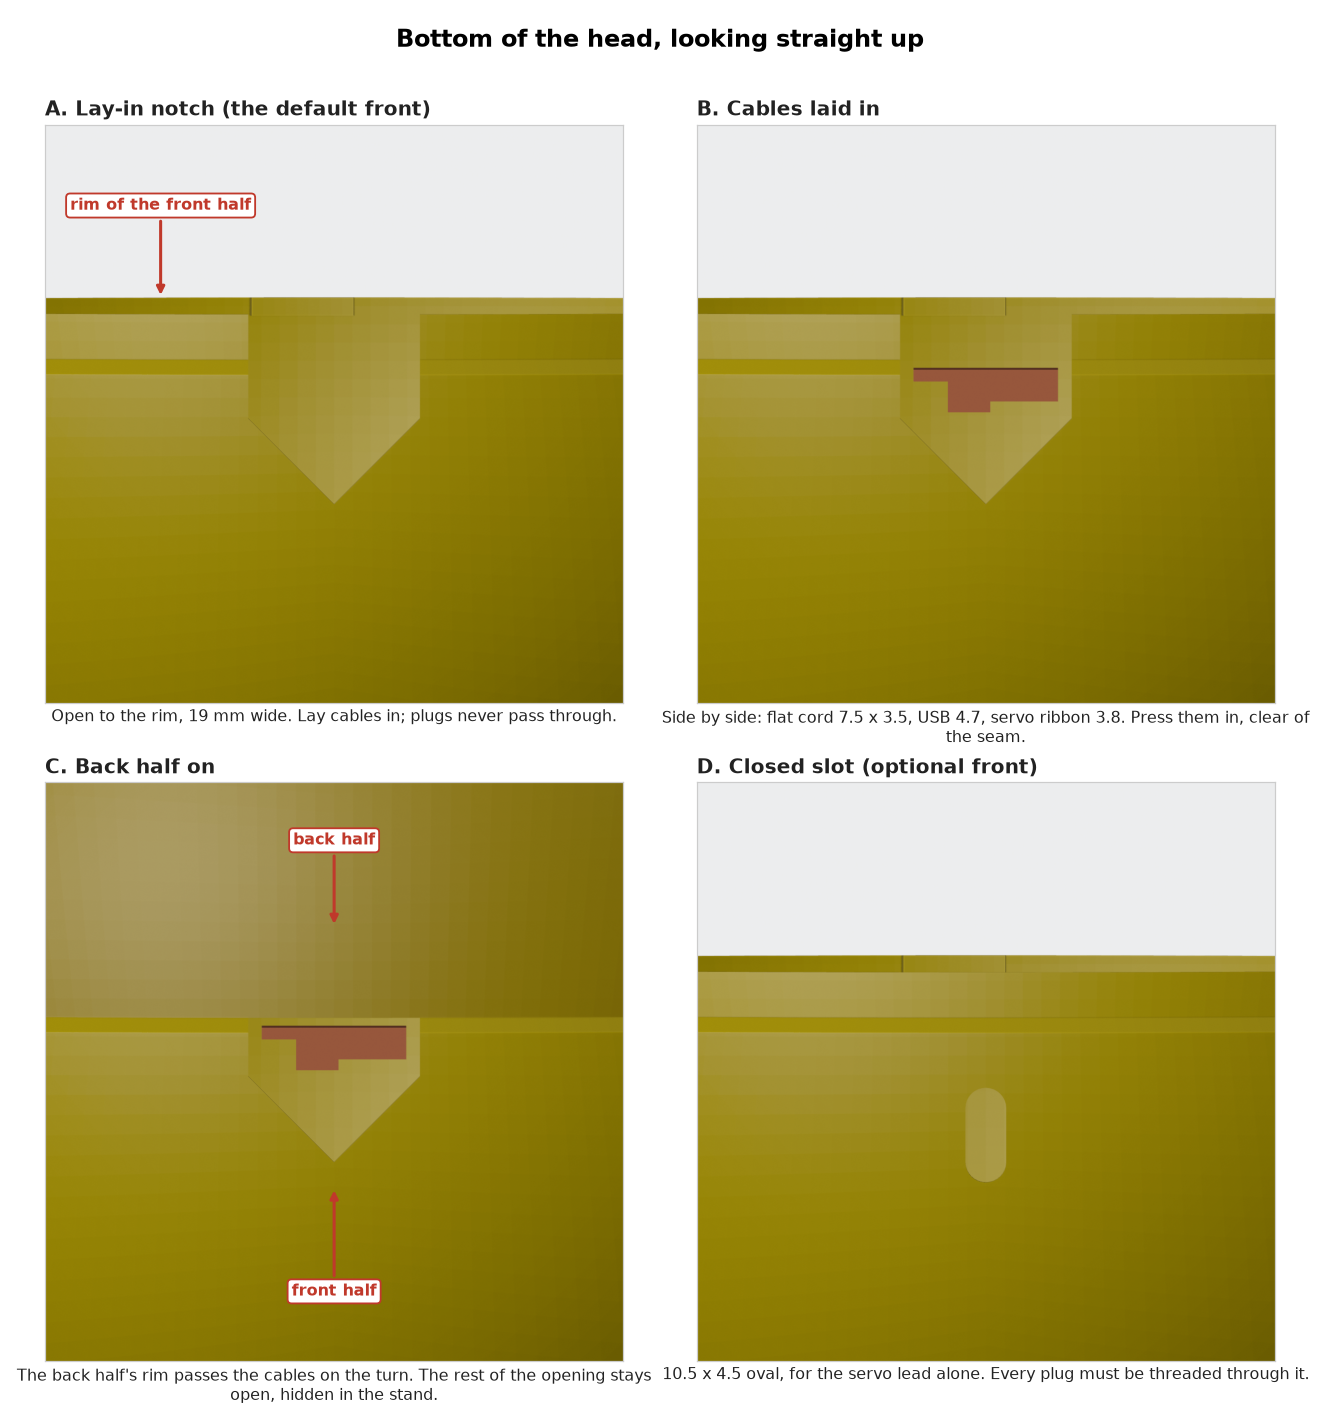
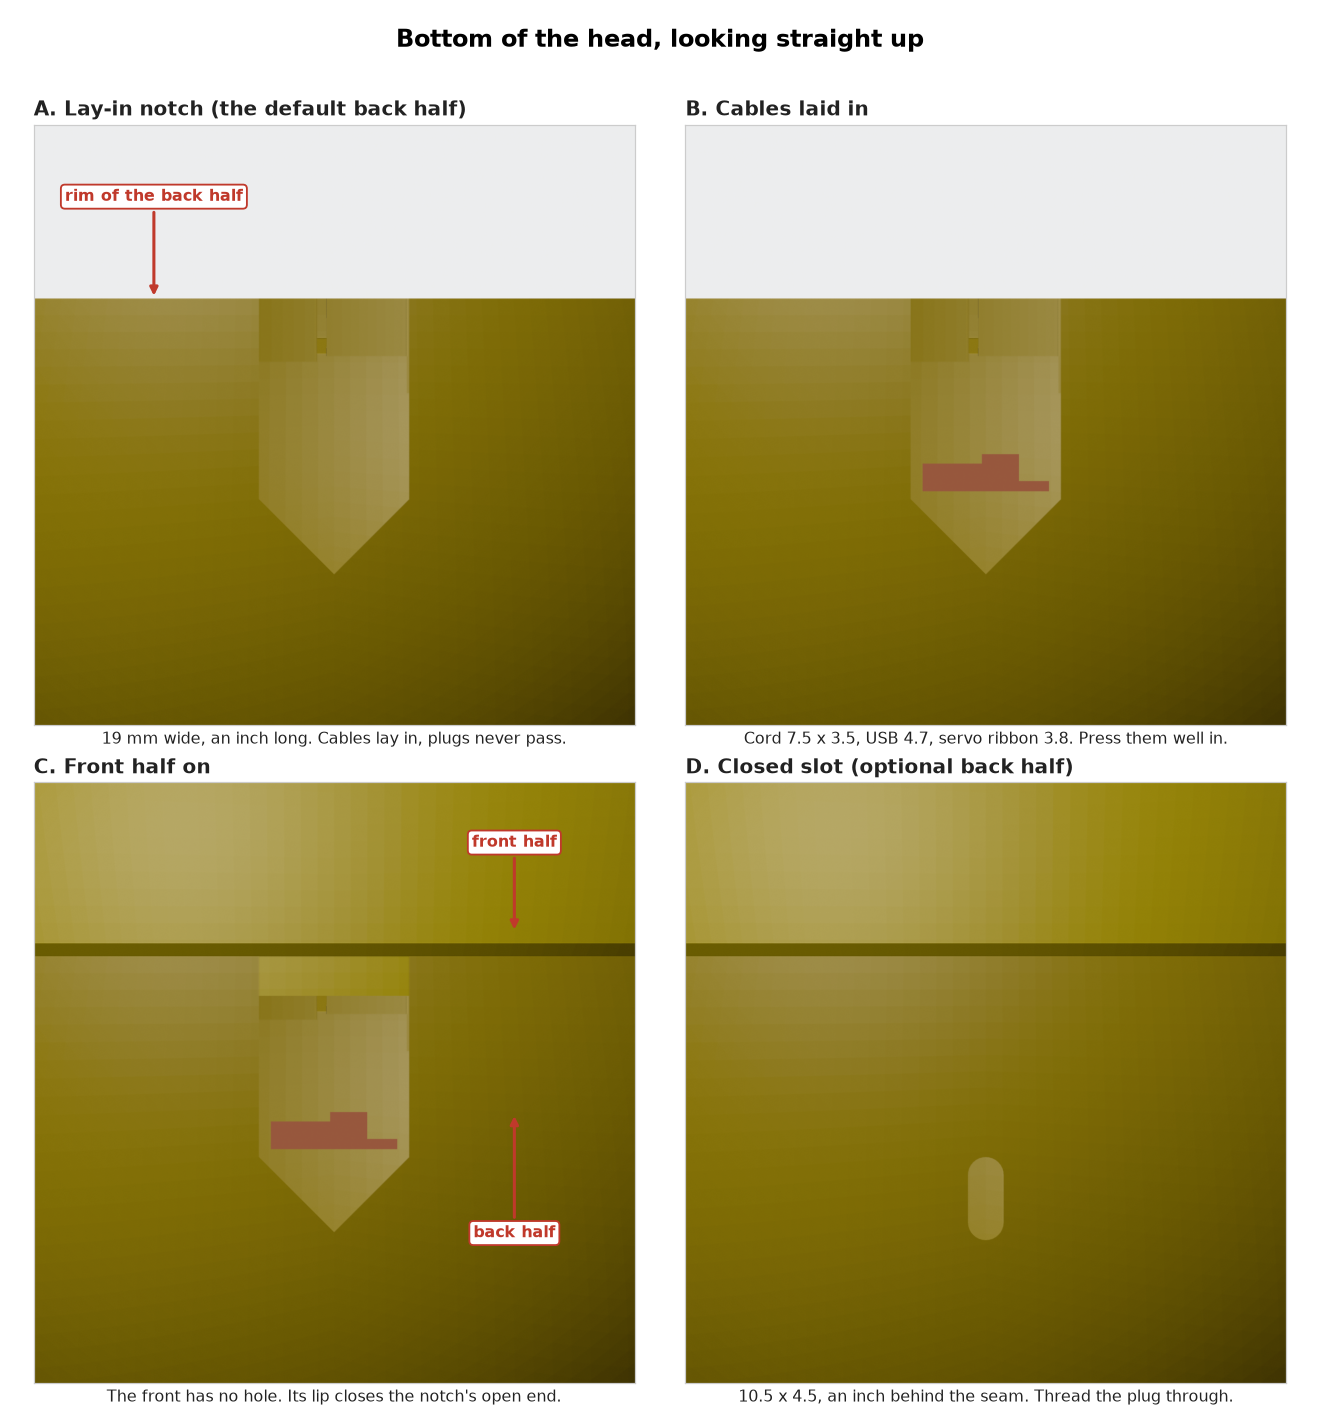
talkbot-head v0.9.2: cable exit moved to the back half; eye plug needs glue (correction). Press-fit and ball-head lessons in design for print
Claude-Session: https://claude.ai/code/session_01JBzx3YZPviiC66rtEqwJrp

diff --git a/talkbot-head/ASSEMBLY.md b/talkbot-head/ASSEMBLY.md
@@ -12,10 +12,10 @@ Print **T1** and try the servo's gear in each of its three pockets (the notches 
 will not twist on the gear. The paddle uses 4.6. If a different pocket wins on your printer, the paddle will be loose or tight: tell
 us by opening an issue.
 
-Print **T2 and T3** (T2 has the cable notch, so it proves the seam still holds with it) and try the twist-lock (step 6) before spending 16 hours on the halves. Hold the back hoop still, set the front
+Print **T2 and T3** (T3 has the cable notch, so it proves the seam still holds with it) and try the twist-lock (step 6) before spending 16 hours on the halves. Hold the back hoop still, set the front
 hoop on it with the ticks 18 mm apart, and turn. Right: a soft bump, then a hard stop, with fingertip force.
 
-Cleanup: snap the tree supports out of the dome, then scrape the inner wall flat around the mouth and around both eyes. Support marks there tilt everything. Trim the brim's ridge from the lip. On the notched front, take the thin support out of the
+Cleanup: snap the tree supports out of the dome, then scrape the inner wall flat around the mouth and around both eyes. Support marks there tilt everything. Trim the brim's ridge from the lip. On the notched back, take the thin support out of the
 notch with pliers and a knife.
 
 ## 1. Mouth unit, on the bench
@@ -36,9 +36,8 @@ notch with pliers and a knife.
 The eye on the left as you face the head is on the bracket. The other eye is one plug from part 05. The three plugs differ only in
 their ribs, the thin strips along the pin that squash as it goes in, and the notches on each rim say how tight it is: 1 is loosest, 3 is
 tightest. Start with 3, which was the best of the three on an A1 mini in PLA. With the back half off, press it in from the inside with your thumb
-until its rim sits on the wall. Right: the face is flush with the sphere and the plug stays put when you shake the head, with no glue. If 3 will
-not go in, try 2, then 1, or shave its ribs with a knife.
-
+until its rim sits on the wall. Right: the face is flush with the sphere. If 3 will not go in, try 2, then 1, or shave its ribs with a knife.
+Then put a dab of hot glue over the rim, inside. On the test build the ribs alone were not enough: a thumb bump pushed the plug out.
 
 1. Cut the support off the yellow post inside the face, scrape its face smooth, and run a screw into each of its two pilots once.
 2. Bring the unit in through the open back, pin first, into the eye hole. The eye's face must sit flush with the outside of the sphere.
@@ -54,10 +53,13 @@ not go in, try 2, then 1, or shave its ribs with a knife.
 
 The head holds only the servo. Its lead, with the jumper wires, goes down to the Pico in the base.
 
-- **Lay-in front (01):** lay the lead in the notch at the bottom of the head. Other cables go beside it. Press everything fully in,
-  away from the rim, before the back goes on, or the back's rim will catch it on the turn. It takes a flat cord 7.5 x 3.5, a USB
-  cable 4.7 round and the servo ribbon side by side.
-- **Closed-slot front (01b):** thread the servo lead through the oval before the head goes on the stand.
+The exit is in the back half, an inch behind the seam, so it stays out of sight when the head tilts up to look at people.
+
+- **Lay-in back (02):** do this at step 6, as the back goes on. Bring the back half up so the lead slides into the notch from the rim, with
+  any other cables beside it. Press everything well in, away from the rim, so the front's lip can pass. The notch is wide enough for a flat
+  cord 7.5 x 3.5, a USB cable 4.7 round and the servo ribbon side by side, but thick cables have not been tried here: see Base. To open the head, the back half lifts away from the cables.
+- **Closed-slot back (02b):** thread the servo lead through the oval from the inside before the back goes on. The back half then stays on the
+  lead. To take it right off, undo the jumper joint and pull the plug back through.
 
 Tape each jumper joint and leave slack, or the plugs pull apart when the head is lifted.
 
@@ -66,8 +68,8 @@ Tape each jumper joint and leave slack, or the plugs pull apart when the head is
 ![The back arch](images/back_arch.png)
 
 1. Tape the webcam to the riser's floor, facing the front, tilted up. Tilted fully up it comes within 2 mm of the head, so route
-   cables round its sides, not over the top. **Before printing the notched front, test this:** with the real camera at your tilt and
-   the head on the stand, can your cables get from the bottom of the head to the back? The servo ribbon always can; thick cables may not, and
+   cables round its sides, not over the top. **Before printing the notched back, test this:** with the real camera at your tilt and
+   the head on the stand, can your cables get from the bottom of the head to the back? Tilting the head rolls the exit forward over the camera. The servo ribbon always can; thick cables may not, and
    then the camera has to tilt less.
 2. Put the hub, Pico and speaker behind it. Connect the Pico, the camera and the speaker's charge lead to the hub.
    Plug the speaker's 3.5 mm lead into the female-to-female adapter, the adapter into the ground loop isolator, and the extension from the
@@ -84,7 +86,8 @@ Run the camera and speaker from your software, and send the jaw angles between 2
 
 ## 6. Close the head (twist-lock)
 
-The head sits on the pedestal's ring. Hold on to the front half.
+Do this with the head lifted at least 5 mm off the pedestal's ring: the back half cannot go on while the front sits down on the ring, because the
+back's lower edge hits it. Leave that much slack in the cables, and glue or stick nothing to the ring until the head is closed. Hold on to the front half.
 
 1. Find the small ticks at the top of the seam: one on the back, two on the front.
 2. Put the back's tick against the front's far tick and set the back on. It drops about 5 mm with no force.

diff --git a/docs/design-for-print/10-solved-mechanisms.md b/docs/design-for-print/10-solved-mechanisms.md
@@ -19,7 +19,7 @@ The long-form reasoning and the sources are in the section each entry links to.
 | [Twist-lock seam for a two-half shell](#twist-lock-seam-for-a-two-half-shell) | closing a round or cylindrical shell from the inside, no hardware, opened now and then | worked in the hand (final lengths not yet printed) |
 | [Printed hub on a micro-servo spline](#printed-hub-on-a-micro-servo-spline) | driving a printed arm, jaw or paddle from an SG90/MG90S | printed, not yet proven |
 | [Side-entry micro-servo mount](#side-entry-micro-servo-mount) | holding a micro servo in a printed block when its lead leaves the end face | designed and checked |
-| [Crush-rib socket](#crush-rib-socket) | pressing a printed part into a printed bore that has to stay put without glue | worked in the hand (the plug; the lip version not reported; long-term hold not known) |
+| [Crush-rib socket](#crush-rib-socket) | pressing a printed part into a printed bore that has to stay put without glue | plug version seats flush but did not hold alone; lip version not reported |
 | [Ear-and-post second mount inside a shell](#ear-and-post-second-mount-inside-a-shell) | anchoring a part already located by a hole, with no fastener showing outside | designed and checked |
 | [Lay-in cable notch at a seam](#lay-in-cable-notch-at-a-seam) | letting cables with fat plugs leave a shell that closes by twisting | designed and checked |
 | [Fold-out plate on a friction hinge](#fold-out-plate-on-a-friction-hinge) | a printed plate fixed to an existing hinge leaf (a stand, a flap) | designed and checked |
@@ -108,15 +108,18 @@ stopping short of the bore's first-layer flare, with a 0.8 mm chamfer on the lip
 the wall doesn't; too tight, shave the ribs with a knife. Guides suggest ribs about 0.2 mm proud; this used 0.05
 because printed holes already come out small (section 1). Report the fit (won't go / push / slides) when printed.
 
-**Plug version (worked in the hand, 2026-10-31).** A plug pressed into an oval hole through a curved shell wall, where glue was
+**Plug version (printed, did not hold without glue, 2026-10-31).** A plug pressed into an oval hole through a curved shell wall, where glue was
 the alternative. The pin body sits 0.35 mm clear of the hole and never touches. Eight ribs (1.6 mm wide at the base, 0.6 at the tip,
 0.8 mm lead-in, stopping 0.6 mm short of the face) do all the gripping. The flange behind the wall copies the wall's curve, so
 seated means flush. Three plugs at rib gaps +0.15, +0.05 and -0.05 mm from the modelled hole, marked with 1, 2 and 3 notches through
-the flange's rim (section 1, coupons). **The -0.05 plug, 3 notches, fit best**, on the real shell. It is the tightest size tried.
+the flange's rim (section 1, coupons). The -0.05 plug, 3 notches, fit best on the real shell, but a thumb bump pushed it out, so it was glued. Seating flush worked; retention
+did not. It is the tightest size tried; tighter ones are modelled, not printed. If the part can be merged with something located
+(section 0 of the entry point, "Don't have two parts"), do that: the next version of this design would put the eye on the bracket
+that already seats behind the wall, with a little preload pushing it forward so tolerances can't leave it hanging back.
 
 Failed version: a plain plug with a flat flange and no ribs stood proud of the sphere and needed glue. A flat flange on a curved
 wall touches at one point, and in the model it would have seated flush, so the plug probably never went all the way in (not
-measured). PLA creeps, so a joint held only by friction may loosen over months (section 1); this one carries only its own weight.
+measured).
 
 ## Ear-and-post second mount inside a shell
 
@@ -165,6 +168,15 @@ own friction holds it at any angle.
 
 **Use it when** cables leave a two-half shell and a plug may be too big for any hole you want to leave. Cables are laid in, so the
 opening is sized for the cable, not the plug.
+
+**Update (2026-10-31): put the exit on the side away from the viewer.** A ball head on a ring gets tilted in use, and tilting rolls the
+bottom forward: on a 170 mm ball resting on a 107 mm ring, an exit 18 mm forward of the bottom pole showed at about 27° of tilt. Moved to the
+back half with its near edge 25 mm behind the seam, a closed slot stays hidden to about 57° (model only, not printed). Check visibility at the
+tilts the part will really be used at, not only level. The price: the lead now passes through the half that comes off, so a closed slot
+tethers it, and a lay-in notch doesn't, which is another reason to prefer the notch. A closing check also caught that a half cannot be
+fitted while its partner sits fully down in the ring: its lower edge overlaps the ring until about 4 mm up. Sweep the closing motion where the builder
+will really do it, on the stand.
+
 
 **Motion**: with one half off, lay the cables in the notch, press them clear of the seam, close the other half.
 

diff --git a/talkbot-head/README.md b/talkbot-head/README.md
@@ -11,9 +11,8 @@ serial (see `firmware/code.py`), so anything that can open a serial port can dri
 
 | Part | State |
 |---|---|
-| Back half, paddle, bracket, eye plug, pedestal, riser | Printed and assembled on one A1 mini build |
-| Front half with the closed slot (`01b`) | Printed and assembled on the same build |
-| Front half with the lay-in notch (`01`) | **Modelled, sliced and reviewed. Not printed yet.** Thick cables also need a bench test: see Assembly, Base |
+| Paddle, bracket, eye plug, pedestal, riser | Printed and assembled on one A1 mini build |
+| Front half (`01`), back half with the lay-in notch (`02`), back half with the closed slot (`02b`) | **Modelled, sliced and reviewed. Not printed yet.** The same halves were printed and used with the cable exit in the front; it showed when the head tilted up, so it moved to the back. Thick cables also need a bench test: see Assembly, Base |
 
 Every part was printed once, on one printer. Fits are measured on that printer only. Test pieces are included for that reason.
 
@@ -23,25 +22,25 @@ The parts are attached to each release of this repo as a zip, as `.3mf` (ready t
 
 | # | Part | Colour | Layer | Supports | Time | Filament |
 |---|---|---|---|---|---|---|
-| 01 | Front half, lay-in cable notch | yellow | 0.16 | tree, plate only | 8 h 56 m | 170 g |
-| 01b | Front half, closed slot (print this **or** 01) | yellow | 0.16 | tree, plate only | 8 h 57 m | 171 g |
-| 02 | Back half | yellow | 0.20 | tree, plate only | 7 h 32 m | 166 g |
+| 01 | Front half | yellow | 0.16 | tree, plate only | 8 h 57 m | 171 g |
+| 02 | Back half, lay-in cable notch | yellow | 0.20 | tree, plate only | 7 h 46 m | 168 g |
+| 02b | Back half, closed slot (print this **or** 02) | yellow | 0.20 | tree, plate only | 7 h 49 m | 170 g |
 | 03 | Mouth paddle | yellow | 0.20 | tree, plate only | 0 h 55 m | 12 g |
 | 04 | Servo bracket, with one eye on it | black | 0.20 | tree, plate only | 0 h 57 m | 13 g |
 | 05 | Eye plugs, three tightnesses (you need one) | black | 0.12 | no | 0 h 29 m | 4 g |
 | 06 | Pedestal | black | 0.20 | no | 3 h 34 m | 89 g |
 | 07 | Riser | black | 0.20 | no | 2 h 57 m | 98 g |
 | T1 | Test: gear fit, three pocket sizes | yellow | 0.20 | no | 0 h 19 m | 3 g |
-| T2 | Test: twist-lock, front hoop with the notch | yellow | 0.20 | no | 0 h 41 m | 15 g |
-| T3 | Test: twist-lock, back hoop | yellow | 0.20 | no | about 1 h | 22 g |
+| T2 | Test: twist-lock, front hoop | yellow | 0.20 | no | 0 h 41 m | 15 g |
+| T3 | Test: twist-lock, back hoop with the notch | yellow | 0.20 | no | 1 h 4 m | 21 g |
 
-About 25 h in all: 350 g yellow, 200 g black, PLA. Times are slicer estimates. **Which front:** print 01 unless you are sure only
-the servo lead will ever go through the head. Lay-in means no plug ever has to pass through, so a fat one is no problem.
+About 25 h in all: 350 g yellow, 200 g black, PLA. Times are slicer estimates. **Which back:** print 02 unless you are sure only
+the servo lead will ever go through the head. Lay-in means no plug ever has to pass through, so a fat one is no problem, and the back half lifts away from the cables. With the closed slot the lead stays threaded through the back half.
 
 **Printers.** Set up and printed on a Bambu Lab A1 mini (180 x 180 x 180 mm bed). The halves are 170 mm across and take a 3 mm
 brim, so they need a bed of at least 180 x 180 mm. Each `.3mf` holds A1 mini, 0.4 mm nozzle, PLA settings. A larger printer will
 fit every part, but those settings were made for the A1 mini, so re-slice for your machine. Other brands can use the `.stl` files
-with the layer and support settings above. Each half stands on a thin ring, and the notched front's ring is open at the notch: watch its first layers.
+with the layer and support settings above. Each half stands on a thin ring, and the notched back's ring is open at the notch: watch its first layers.
 
 ## Parts to buy
 
@@ -59,7 +58,7 @@ with the layer and support settings above. Each half stands on a thin ring, and 
 | 3.5 mm audio extension cable, female-to-female adapter, ground loop isolator | Computer to speaker. The isolator stops the hum you can get with the speaker charging from the same hub |
 | Black tape, hobby knife, small screwdriver | For the smile line, support cleanup and the screws |
 
-Nothing here needs drilling, and the eye plug needs no glue.
+Nothing here needs drilling. The eye plug needs a dab of hot glue on its back: ribs alone did not hold it.
 
 ## How it connects
 

diff --git a/docs/design-for-print/1-fits-and-holes.md b/docs/design-for-print/1-fits-and-holes.md
@@ -105,8 +105,9 @@ let the coupon decide. Correction (2026-10-29, review): the hinge row was a per-
   follow-up design uses 4.6 mm so only the teeth bite.
 - **(2026-10-31, A1 mini, black PLA plug at 0.12 mm layers, into a yellow PLA shell at 0.16 mm layers):** eight crush ribs
   on a press-in plug, in a 10.6 × 21 mm oval hole through a shell wall, printed at gaps of +0.15, +0.05 and -0.05 mm from
-  the modelled hole. The -0.05 plug (ribs 0.05 mm proud of the hole) fit best. It was the tightest of the three, so the
-  range did not bracket the fit from above: on the next set, centre on -0.05 and step tighter.
+  the modelled hole. The -0.05 plug (ribs 0.05 mm proud of the hole) fit best, but "fits best" was not "holds": a thumb bump
+  pushed it out and it had to be glued. It was the tightest of the three, so the range did not bracket the fit from above.
+  A next set at -0.15, -0.25 and -0.35 is modelled, not printed. Test a press fit by bumping it, not only by whether it seats.
 
 ## Sources
 

diff --git a/talkbot-head/CHANGELOG.md b/talkbot-head/CHANGELOG.md
@@ -1,5 +1,9 @@
 # Changelog
 
+## v0.9.2 (2026-10-31)
+The cable exit moved to the back half, an inch behind the seam, because it showed when the head tilted up. One front with no hole, two backs: lay-in
+notch or closed slot. Not printed yet. **Correction to v0.9.1:** the eye plug needs a dab of hot glue. The ribs alone did not hold it against a thumb bump.
+
 ## v0.9.1 (2026-10-31)
 Part 05 replaced. The old eye plug stood proud of the sphere and wanted glue. The new one has the bracket eye's curved seat, so it stops flush, and
 squash ribs that grip without glue. Three tightnesses, marked with 1, 2 or 3 notches; 3 fit best on the printer it was tried on.
